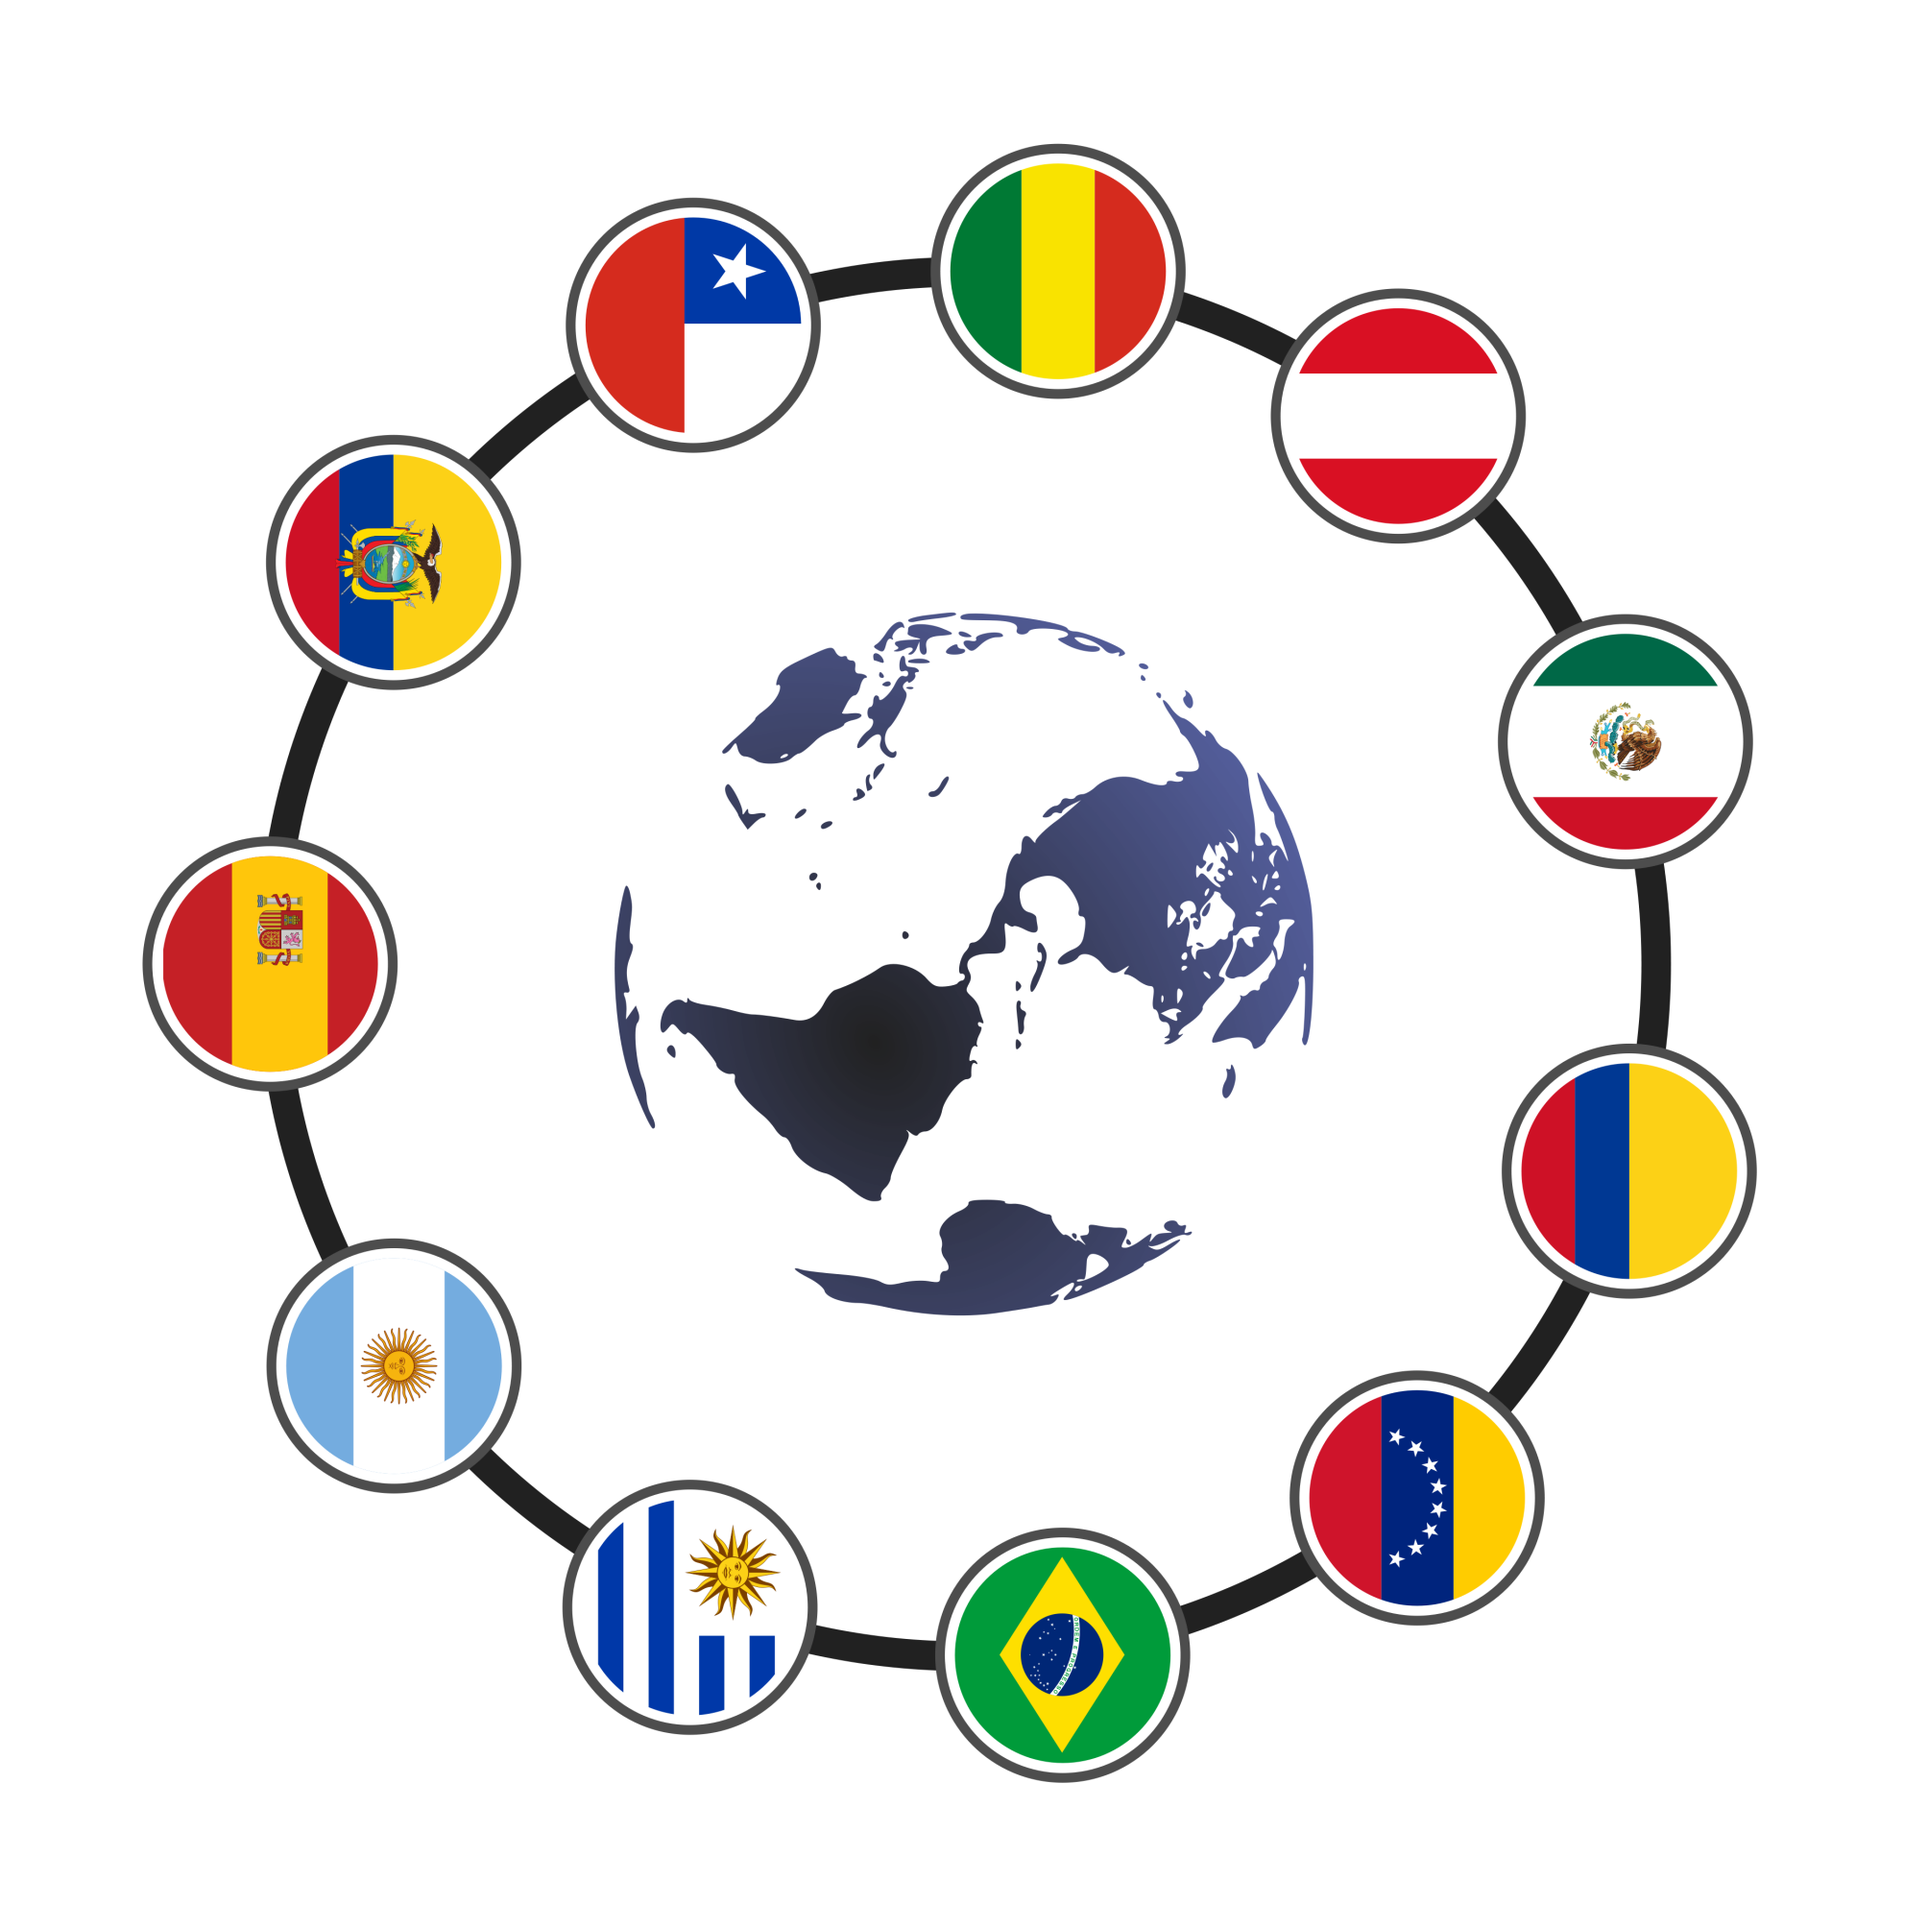
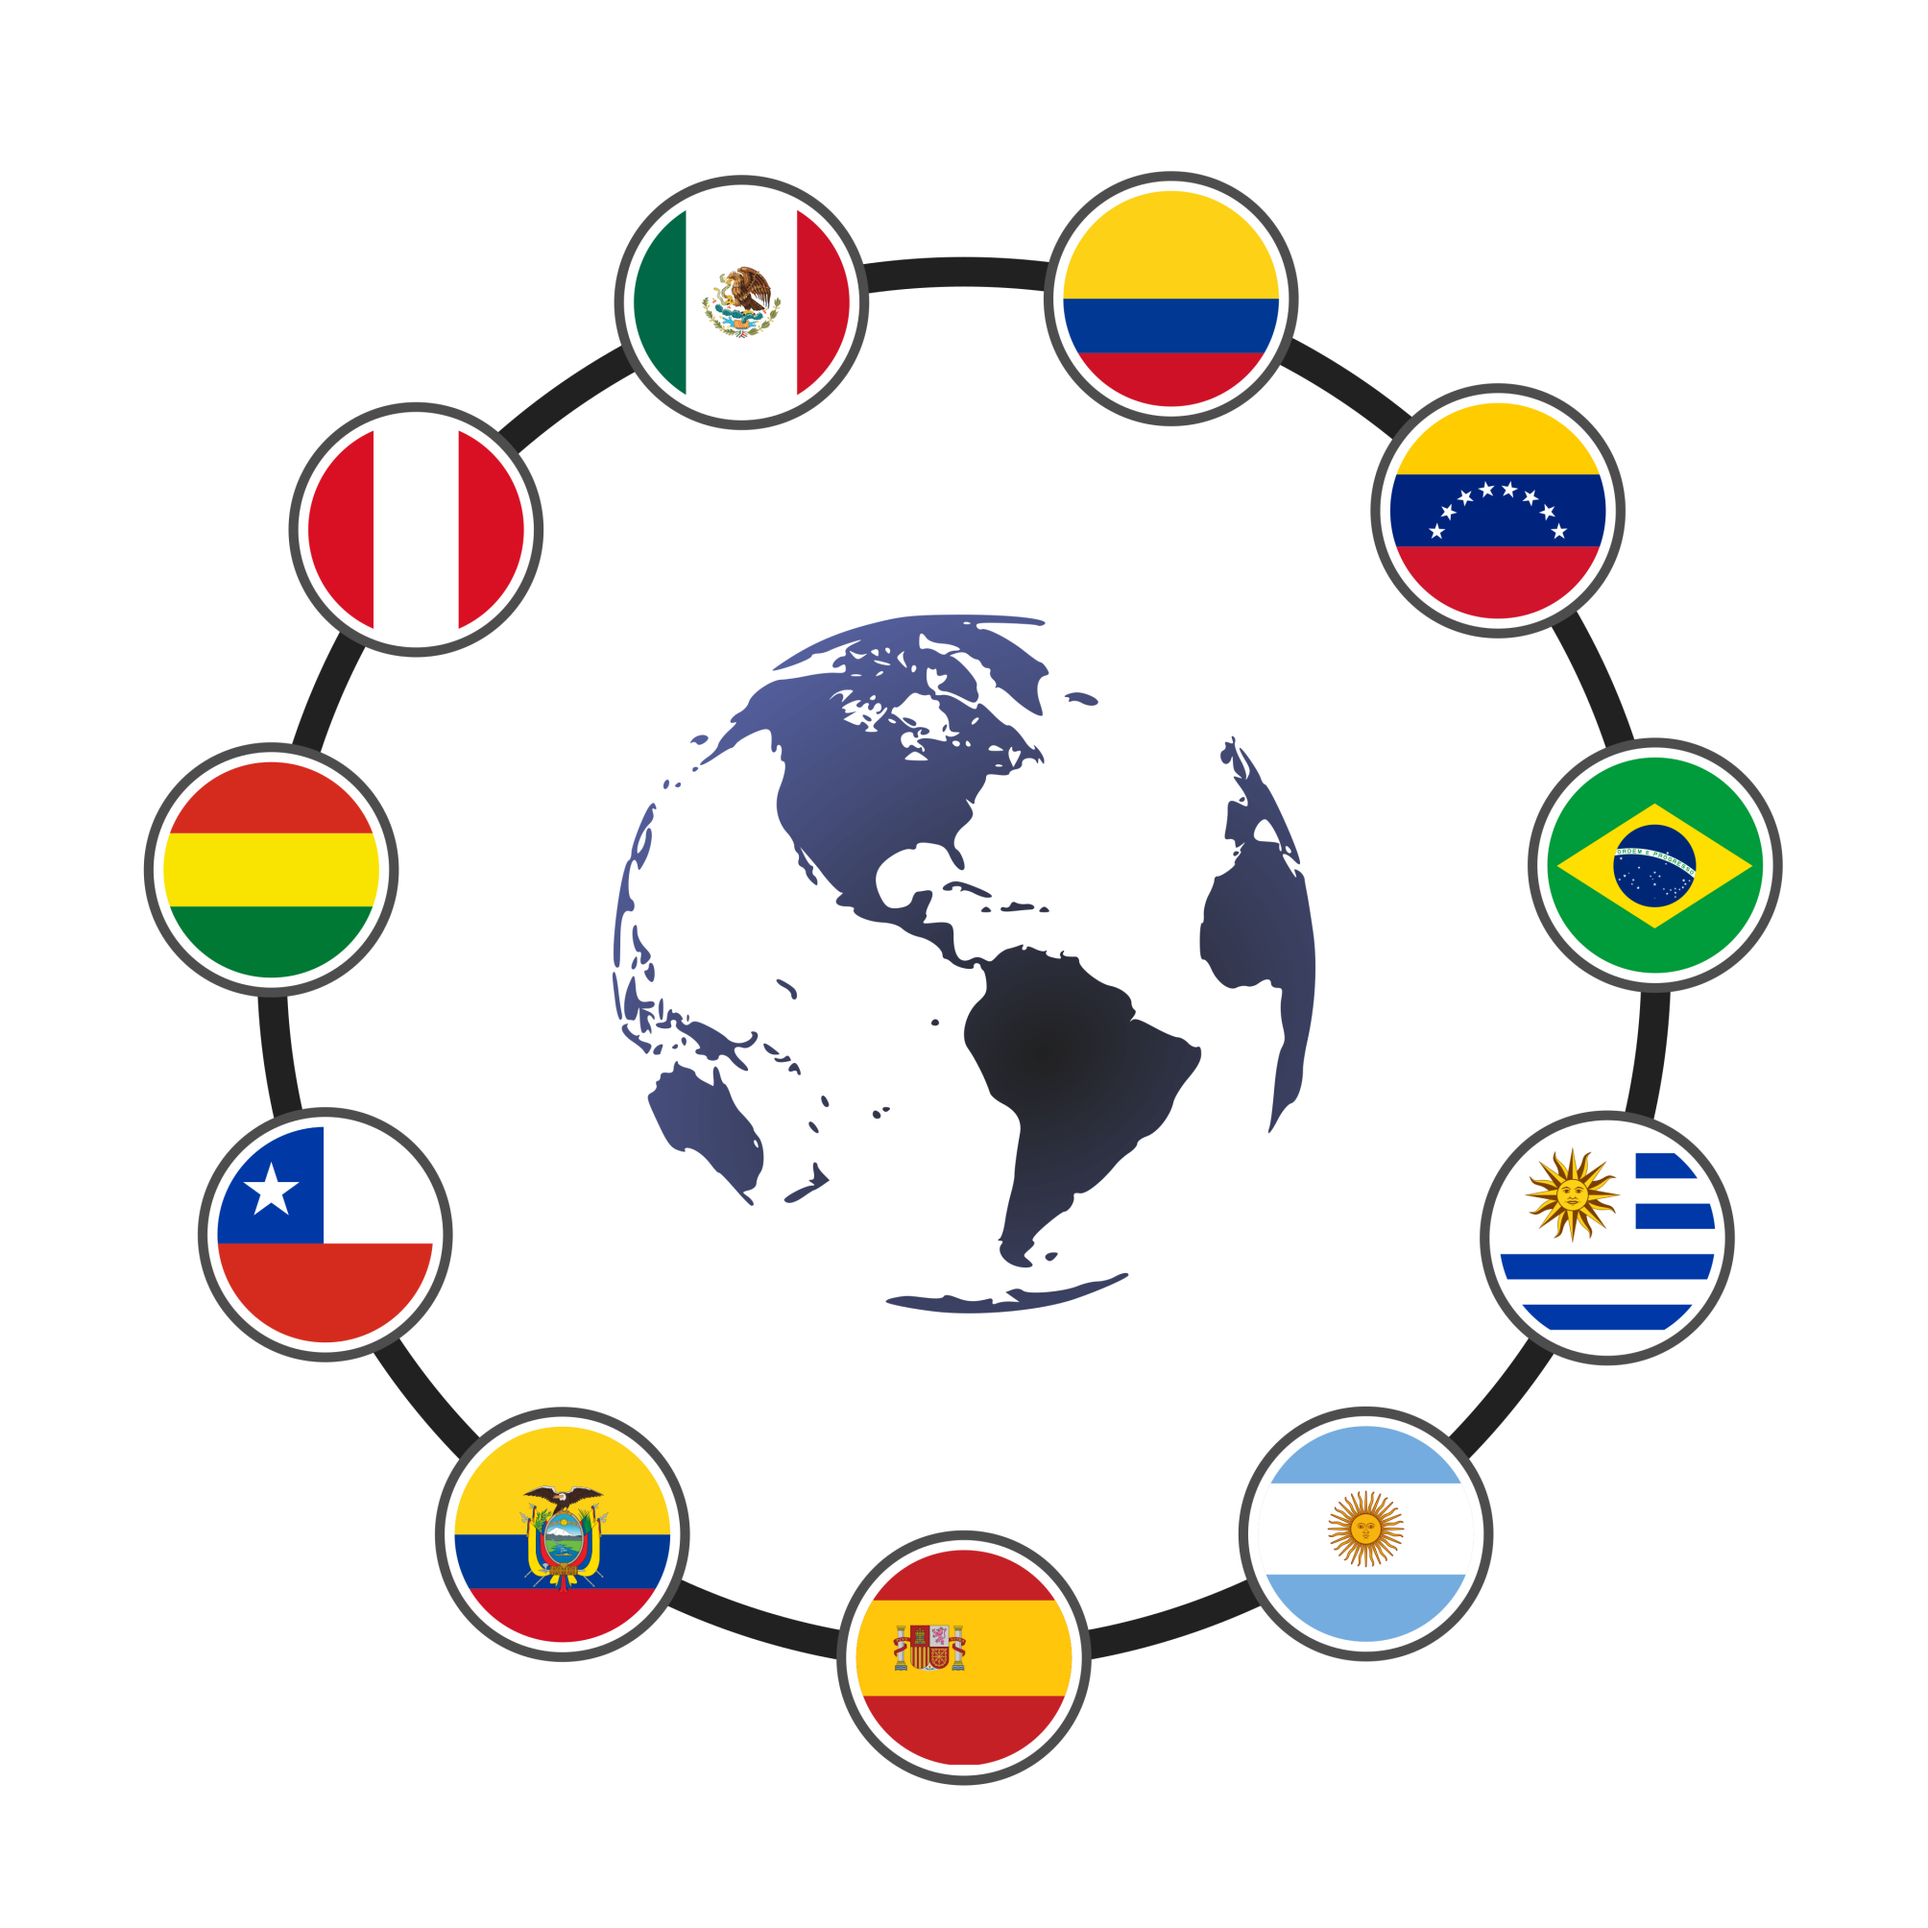
imagen de países en pagina de inicio

Changed region(s): [[0.2779, 0.0618, 0.9263, 0.8645], [0.0618, 0.1853, 0.6175, 0.9263], [0.3088, 0.3088, 0.6793, 0.6793]]

diff --git a/material/.overrides/home.html b/material/.overrides/home.html
@@ -9,7 +9,7 @@
     <div class="md-grid md-typeset">
       <div class="mdx-hero">
         <div class="mdx-hero__image">
-          <img src="assets/images/illustration.png" alt="" width="1659" height="1200" draggable="false">
+          <img src="assets/images/banderasLago.png" alt="" width="600" height="600" draggable="false">
         </div>
         <div class="mdx-hero__content">
           <h1>Latin American Giant Observatory</h1>

diff --git a/src/.overrides/home.html b/src/.overrides/home.html
@@ -67,10 +67,10 @@
         <!-- Hero image -->
         <div class="mdx-hero__image">
           <img
-            src="assets/images/banderasLago.svg"
+            src="assets/images/illustration.png"
             alt=""
-            width="800"
-            height="800"
+            width="1659"
+            height="1200"
             draggable="false"
           >
         </div>
